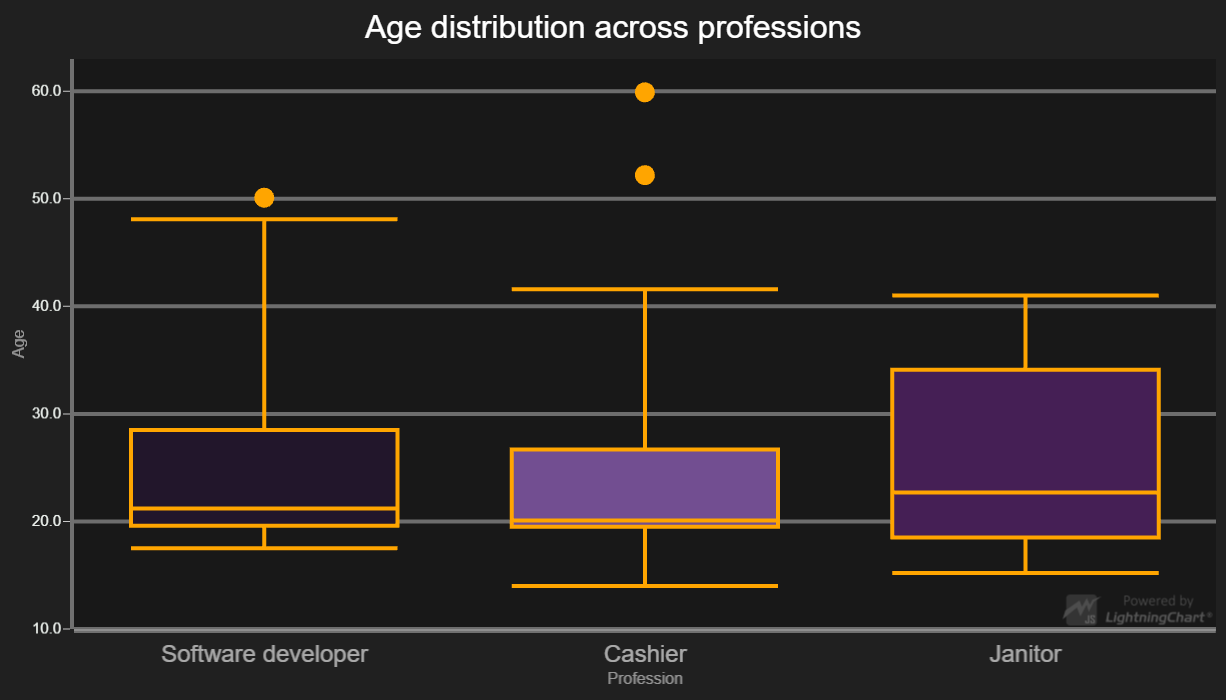
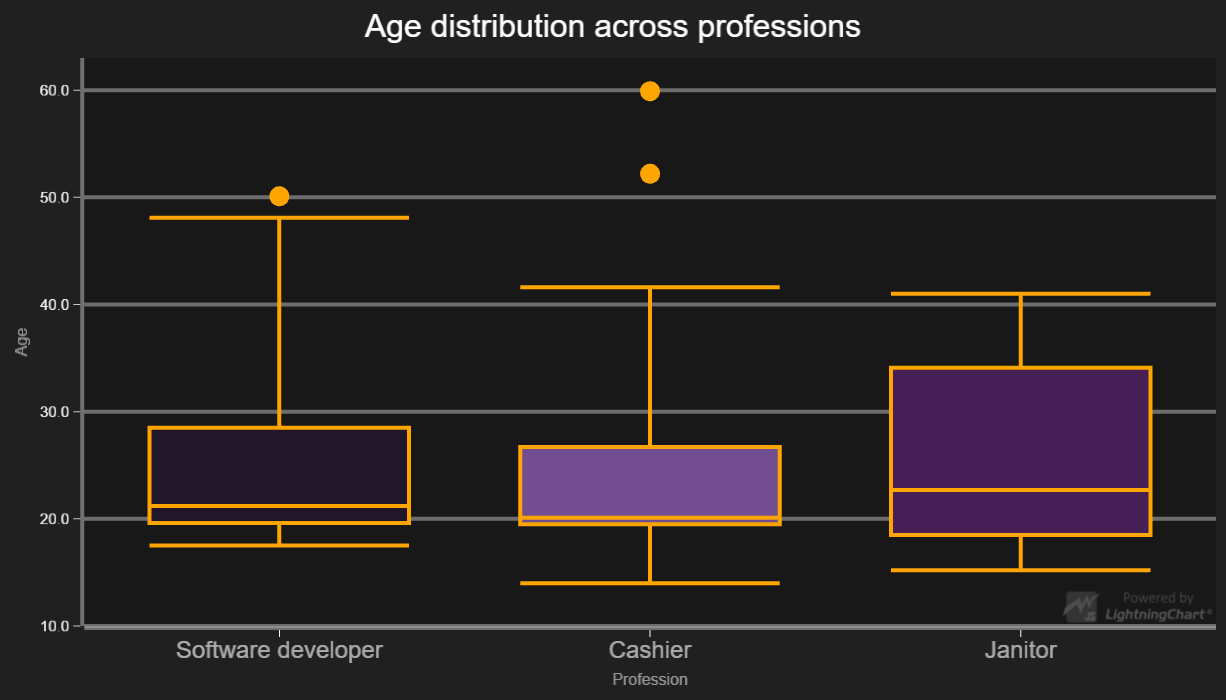
LCJS 3.0.0

Changed region(s): [[0.0, 0.09, 0.9918, 0.99], [0.279, 0.03, 0.7129, 0.06], [0.4959, 0.12, 0.5579, 0.15]]

diff --git a/src/index.js b/src/index.js
@@ -16,6 +16,7 @@ const {
     AxisTickStrategies,
     AutoCursorModes,
     PointShape,
+    UIElementBuilders,
     Themes
 } = lcjs
 
@@ -180,17 +181,13 @@ allData.forEach((profession, i) => {
     })
 
     // ----- Create CustomTick on X-Axis for displaying name of profession -----
-    axisX.addCustomTick()
+    axisX.addCustomTick(UIElementBuilders.AxisTick)
         .setValue(middle)
         .setTextFormatter(() => profession.name)
         .setGridStrokeLength(0)
         .setMarker((marker) => marker
-            .setBackground((background) => background
-                .setFillStyle(emptyFill)
-                .setStrokeStyle(emptyLine)
-            )
             .setTextFillStyle(new SolidFill({ color: ColorHEX('#aaaf') }))
-            .setFont((font) => font
+            .setTextFont((font) => font
                 .setSize(24)
             )
         )

diff --git a/README.md b/README.md
@@ -77,14 +77,14 @@ Direct developer email support can be purchased through a [Support Plan][4] or b
 © Arction Ltd 2009-2020. All rights reserved.
 
 
-[XY cartesian chart]: https://www.arction.com/lightningchart-js-api-documentation/v2.2.0/classes/chartxy.html
-[Axis tick strategies]: https://www.arction.com/lightningchart-js-api-documentation/v2.2.0/globals.html#axistickstrategies
-[AutoCursor modes]: https://www.arction.com/lightningchart-js-api-documentation/v2.2.0/enums/autocursormodes.html
-[Point shapes]: https://www.arction.com/lightningchart-js-api-documentation/v2.2.0/enums/pointshape.html
-[HEX Color factory]: https://www.arction.com/lightningchart-js-api-documentation/v2.2.0/globals.html#colorhex
-[Solid Fill style]: https://www.arction.com/lightningchart-js-api-documentation/v2.2.0/classes/solidfill.html
-[Solid Line style]: https://www.arction.com/lightningchart-js-api-documentation/v2.2.0/classes/solidline.html
-[Empty Axis tick style]: https://www.arction.com/lightningchart-js-api-documentation/v2.2.0/globals.html#emptytick
-[Empty Fill style]: https://www.arction.com/lightningchart-js-api-documentation/v2.2.0/globals.html#emptyfill
-[Empty Line style]: https://www.arction.com/lightningchart-js-api-documentation/v2.2.0/globals.html#emptyline
+[XY cartesian chart]: https://www.arction.com/lightningchart-js-api-documentation/v3.0.0/classes/chartxy.html
+[Axis tick strategies]: https://www.arction.com/lightningchart-js-api-documentation/v3.0.0/globals.html#axistickstrategies
+[AutoCursor modes]: https://www.arction.com/lightningchart-js-api-documentation/v3.0.0/enums/autocursormodes.html
+[Point shapes]: https://www.arction.com/lightningchart-js-api-documentation/v3.0.0/enums/pointshape.html
+[HEX Color factory]: https://www.arction.com/lightningchart-js-api-documentation/v3.0.0/globals.html#colorhex
+[Solid Fill style]: https://www.arction.com/lightningchart-js-api-documentation/v3.0.0/classes/solidfill.html
+[Solid Line style]: https://www.arction.com/lightningchart-js-api-documentation/v3.0.0/classes/solidline.html
+[Empty Axis tick style]: https://www.arction.com/lightningchart-js-api-documentation/v3.0.0/globals.html#emptytick
+[Empty Fill style]: https://www.arction.com/lightningchart-js-api-documentation/v3.0.0/globals.html#emptyfill
+[Empty Line style]: https://www.arction.com/lightningchart-js-api-documentation/v3.0.0/globals.html#emptyline
 
